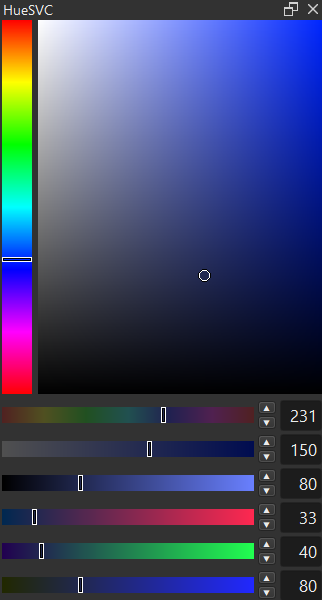
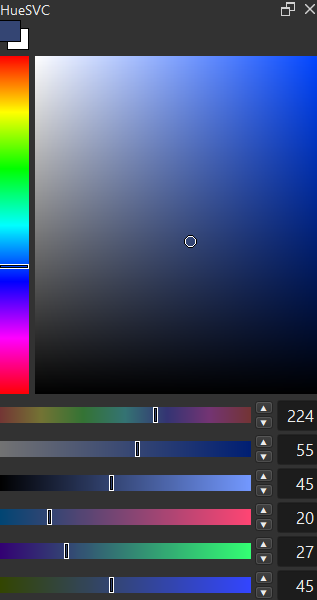
update

diff --git a/quick_access_manager/color_selector/color_selector_dock.py b/quick_access_manager/color_selector/color_selector_dock.py
@@ -233,6 +233,48 @@ class ChannelBar(QWidget):
         self._pressed = False
 
 
+class FgBgColorWidget(QWidget):
+    """Stacked foreground/background color swatch. Click either to swap them."""
+    swapRequested = pyqtSignal()
+
+    _SWATCH = 22
+    _OFFSET = 8
+
+    def __init__(self, parent=None):
+        super().__init__(parent)
+        self._fg = QColor(0, 0, 0)
+        self._bg = QColor(255, 255, 255)
+        total = self._SWATCH + self._OFFSET
+        self.setFixedSize(total, total)
+        self.setCursor(Qt.PointingHandCursor)
+        self.setToolTip("Click to swap foreground / background")
+
+    def setColors(self, fg, bg):
+        if fg == self._fg and bg == self._bg:
+            return
+        self._fg = fg
+        self._bg = bg
+        self.update()
+
+    def paintEvent(self, event):
+        painter = QPainter(self)
+        sw = self._SWATCH
+        off = self._OFFSET
+        # BG swatch behind (offset to bottom-right)
+        painter.fillRect(off, off, sw, sw, self._bg)
+        painter.setPen(Qt.black)
+        painter.drawRect(off, off, sw - 1, sw - 1)
+        # FG swatch in front (top-left)
+        painter.fillRect(0, 0, sw, sw, self._fg)
+        painter.setPen(Qt.black)
+        painter.drawRect(0, 0, sw - 1, sw - 1)
+        painter.end()
+
+    def mousePressEvent(self, event):
+        if event.button() == Qt.LeftButton:
+            self.swapRequested.emit()
+
+
 class ColorSelectorDock(DockWidget):
     def __init__(self):
         super().__init__()
@@ -243,11 +285,21 @@ class ColorSelectorDock(DockWidget):
         self._h, self._s, self._v = 0, 255, 255
         color = QColor.fromHsv(0, 255, 255)
         self._r, self._g, self._b = color.red(), color.green(), color.blue()
+        self._bg_r, self._bg_g, self._bg_b = 255, 255, 255
 
         main_widget = QWidget(self)
         outer_layout = QVBoxLayout(main_widget)
         outer_layout.setContentsMargins(4, 4, 4, 4)
         outer_layout.setSpacing(6)
+
+        # ── FG/BG color swatch ──
+        fg_bg_layout = QHBoxLayout()
+        fg_bg_layout.setContentsMargins(0, 0, 0, 0)
+        self.fg_bg_widget = FgBgColorWidget()
+        self.fg_bg_widget.swapRequested.connect(self._swapColors)
+        fg_bg_layout.addWidget(self.fg_bg_widget)
+        fg_bg_layout.addStretch()
+        outer_layout.addLayout(fg_bg_layout)
 
         # ── Top: hue bar + SV box ──
         top_layout = QHBoxLayout()
@@ -367,6 +419,10 @@ class ColorSelectorDock(DockWidget):
         self.channel_labels['R'].setText(str(r_disp))
         self.channel_labels['G'].setText(str(g_disp))
         self.channel_labels['B'].setText(str(b_disp))
+        self.fg_bg_widget.setColors(
+            QColor(self._r, self._g, self._b),
+            QColor(self._bg_r, self._bg_g, self._bg_b),
+        )
 
     def _applyHSV(self, h, s, v, push=True):
         """Set full state from HSV, update all widgets, optionally push to Krita."""
@@ -400,28 +456,39 @@ class ColorSelectorDock(DockWidget):
             self._poll_timer.start()
 
     def _pollKritaColor(self):
-        """Read Krita's current foreground color and sync UI if it changed."""
+        """Read Krita's current foreground/background colors and sync UI if changed."""
         app = Krita.instance()
         if not app.activeWindow():
             return
         view = app.activeWindow().activeView()
         if not view:
             return
+        canvas = view.canvas()
+
+        # Poll foreground color
         mc = view.foregroundColor()
-        if not mc:
-            return
-        qcolor = mc.colorForCanvas(app.activeWindow().activeView().canvas())
-        if not qcolor or not qcolor.isValid():
-            return
+        if mc:
+            qcolor = mc.colorForCanvas(canvas)
+            if qcolor and qcolor.isValid():
+                r, g, b = qcolor.red(), qcolor.green(), qcolor.blue()
+                if (r, g, b) != (self._r, self._g, self._b):
+                    color = QColor(r, g, b)
+                    h = color.hsvHue() if color.hsvHue() != -1 else self._h
+                    s, v = color.hsvSaturation(), color.value()
+                    self._applyHSV(h, s, v, push=False)
 
-        r, g, b = qcolor.red(), qcolor.green(), qcolor.blue()
-        if (r, g, b) == (self._r, self._g, self._b):
-            return  # no change
-
-        color = QColor(r, g, b)
-        h = color.hsvHue() if color.hsvHue() != -1 else self._h
-        s, v = color.hsvSaturation(), color.value()
-        self._applyHSV(h, s, v, push=False)
+        # Poll background color
+        mc_bg = view.backgroundColor()
+        if mc_bg:
+            qcolor_bg = mc_bg.colorForCanvas(canvas)
+            if qcolor_bg and qcolor_bg.isValid():
+                r, g, b = qcolor_bg.red(), qcolor_bg.green(), qcolor_bg.blue()
+                if (r, g, b) != (self._bg_r, self._bg_g, self._bg_b):
+                    self._bg_r, self._bg_g, self._bg_b = r, g, b
+                    self.fg_bg_widget.setColors(
+                        QColor(self._r, self._g, self._b),
+                        QColor(self._bg_r, self._bg_g, self._bg_b),
+                    )
 
     # ── Signal handlers ─────────────────────────────────────────
 
@@ -526,6 +593,35 @@ class ColorSelectorDock(DockWidget):
         components[3] = 1.0
         mc.setComponents(components)
         view.setForeGroundColor(mc)
+
+    def _swapColors(self):
+        """Swap Krita's foreground and background colors."""
+        app = Krita.instance()
+        if not app.activeWindow():
+            return
+        view = app.activeWindow().activeView()
+        if not view:
+            return
+        mc_fg = view.foregroundColor()
+        mc_bg = view.backgroundColor()
+        if not mc_fg or not mc_bg:
+            return
+        view.setForeGroundColor(mc_bg)
+        view.setBackGroundColor(mc_fg)
+        # Sync local state to swapped colors
+        canvas = view.canvas()
+        qcolor_new_fg = mc_bg.colorForCanvas(canvas)
+        if qcolor_new_fg and qcolor_new_fg.isValid():
+            color = QColor(qcolor_new_fg.red(), qcolor_new_fg.green(), qcolor_new_fg.blue())
+            h = color.hsvHue() if color.hsvHue() != -1 else self._h
+            self._applyHSV(h, color.hsvSaturation(), color.value(), push=False)
+        qcolor_new_bg = mc_fg.colorForCanvas(canvas)
+        if qcolor_new_bg and qcolor_new_bg.isValid():
+            self._bg_r, self._bg_g, self._bg_b = qcolor_new_bg.red(), qcolor_new_bg.green(), qcolor_new_bg.blue()
+        self.fg_bg_widget.setColors(
+            QColor(self._r, self._g, self._b),
+            QColor(self._bg_r, self._bg_g, self._bg_b),
+        )
 
     def canvasChanged(self, canvas):
         pass

diff --git a/quick_access_manager/color_selector/color_selector_popup.py b/quick_access_manager/color_selector/color_selector_popup.py
@@ -5,7 +5,7 @@ from PyQt5.QtWidgets import (
 from PyQt5.QtGui import QColor, QCursor, QFont, QIntValidator
 from PyQt5.QtCore import Qt, QTimer
 
-from .color_selector_dock import HueBar, SVBox, ChannelBar
+from .color_selector_dock import HueBar, SVBox, ChannelBar, FgBgColorWidget
 from ..config.popup_loader import PopupConfigLoader
 
 
@@ -22,10 +22,20 @@ class ColorSelectorPopupWindow(QFrame):
         self._h, self._s, self._v = 0, 255, 255
         color = QColor.fromHsv(0, 255, 255)
         self._r, self._g, self._b = color.red(), color.green(), color.blue()
+        self._bg_r, self._bg_g, self._bg_b = 255, 255, 255
 
         outer_layout = QVBoxLayout(self)
         outer_layout.setContentsMargins(6, 6, 6, 6)
         outer_layout.setSpacing(6)
+
+        # ── FG/BG color swatch ──
+        fg_bg_layout = QHBoxLayout()
+        fg_bg_layout.setContentsMargins(0, 0, 0, 0)
+        self.fg_bg_widget = FgBgColorWidget()
+        self.fg_bg_widget.swapRequested.connect(self._swapColors)
+        fg_bg_layout.addWidget(self.fg_bg_widget)
+        fg_bg_layout.addStretch()
+        outer_layout.addLayout(fg_bg_layout)
 
         # ── Top: hue bar + SV box ──
         top_layout = QHBoxLayout()
@@ -155,6 +165,10 @@ class ColorSelectorPopupWindow(QFrame):
         self.channel_labels['R'].setText(str(r_disp))
         self.channel_labels['G'].setText(str(g_disp))
         self.channel_labels['B'].setText(str(b_disp))
+        self.fg_bg_widget.setColors(
+            QColor(self._r, self._g, self._b),
+            QColor(self._bg_r, self._bg_g, self._bg_b),
+        )
 
     def _applyHSV(self, h, s, v, push=True):
         self._h, self._s, self._v = h, s, v
@@ -192,21 +206,32 @@ class ColorSelectorPopupWindow(QFrame):
         view = app.activeWindow().activeView()
         if not view:
             return
+        canvas = view.canvas()
+
+        # Poll foreground color
         mc = view.foregroundColor()
-        if not mc:
-            return
-        qcolor = mc.colorForCanvas(app.activeWindow().activeView().canvas())
-        if not qcolor or not qcolor.isValid():
-            return
+        if mc:
+            qcolor = mc.colorForCanvas(canvas)
+            if qcolor and qcolor.isValid():
+                r, g, b = qcolor.red(), qcolor.green(), qcolor.blue()
+                if (r, g, b) != (self._r, self._g, self._b):
+                    color = QColor(r, g, b)
+                    h = color.hsvHue() if color.hsvHue() != -1 else self._h
+                    s, v = color.hsvSaturation(), color.value()
+                    self._applyHSV(h, s, v, push=False)
 
-        r, g, b = qcolor.red(), qcolor.green(), qcolor.blue()
-        if (r, g, b) == (self._r, self._g, self._b):
-            return
-
-        color = QColor(r, g, b)
-        h = color.hsvHue() if color.hsvHue() != -1 else self._h
-        s, v = color.hsvSaturation(), color.value()
-        self._applyHSV(h, s, v, push=False)
+        # Poll background color
+        mc_bg = view.backgroundColor()
+        if mc_bg:
+            qcolor_bg = mc_bg.colorForCanvas(canvas)
+            if qcolor_bg and qcolor_bg.isValid():
+                r, g, b = qcolor_bg.red(), qcolor_bg.green(), qcolor_bg.blue()
+                if (r, g, b) != (self._bg_r, self._bg_g, self._bg_b):
+                    self._bg_r, self._bg_g, self._bg_b = r, g, b
+                    self.fg_bg_widget.setColors(
+                        QColor(self._r, self._g, self._b),
+                        QColor(self._bg_r, self._bg_g, self._bg_b),
+                    )
 
     # ── Signal handlers ──────────────────────────────────────────
 
@@ -285,6 +310,34 @@ class ColorSelectorPopupWindow(QFrame):
         else:
             max_val = 100
         self._onChannelChanged(ch, max(0, min(max_val, val)))
+
+    def _swapColors(self):
+        """Swap Krita's foreground and background colors."""
+        app = Krita.instance()
+        if not app.activeWindow():
+            return
+        view = app.activeWindow().activeView()
+        if not view:
+            return
+        mc_fg = view.foregroundColor()
+        mc_bg = view.backgroundColor()
+        if not mc_fg or not mc_bg:
+            return
+        view.setForeGroundColor(mc_bg)
+        view.setBackGroundColor(mc_fg)
+        canvas = view.canvas()
+        qcolor_new_fg = mc_bg.colorForCanvas(canvas)
+        if qcolor_new_fg and qcolor_new_fg.isValid():
+            color = QColor(qcolor_new_fg.red(), qcolor_new_fg.green(), qcolor_new_fg.blue())
+            h = color.hsvHue() if color.hsvHue() != -1 else self._h
+            self._applyHSV(h, color.hsvSaturation(), color.value(), push=False)
+        qcolor_new_bg = mc_fg.colorForCanvas(canvas)
+        if qcolor_new_bg and qcolor_new_bg.isValid():
+            self._bg_r, self._bg_g, self._bg_b = qcolor_new_bg.red(), qcolor_new_bg.green(), qcolor_new_bg.blue()
+        self.fg_bg_widget.setColors(
+            QColor(self._r, self._g, self._b),
+            QColor(self._bg_r, self._bg_g, self._bg_b),
+        )
 
     def _setKritaForeground(self, qcolor):
         app = Krita.instance()

diff --git a/README.md b/README.md
@@ -303,9 +303,10 @@ The floating widget system is based on the work from [Krita-UI-Redesign](https:/
 A compact color selector docker with a vertical hue bar, saturation/value box, and 6 individual channel bars for H, S, V, R, G, B.
 
 **Features:**
+- **FG/BG color swatch** — two stacked squares at the top display the current foreground (front) and background (back) colors; click either to swap them instantly
 - Drag any channel bar to adjust its value; color is applied to Krita after a short debounce delay
 - Use the ▲/▼ buttons or type a number directly into each channel's value field for precise control
-- Syncs automatically with Krita's active foreground color every second
+- Syncs automatically with Krita's active foreground and background colors at a configurable interval
 - Available as a **popup window** — press the configured shortcut key to open it at the cursor; the popup closes when the mouse leaves
 
 **Popup Shortcut:** `A` (default)
@@ -314,7 +315,8 @@ A compact color selector docker with a vertical hue bar, saturation/value box, a
 - **Color Selector Popup Shortcut** — key to open/close the popup
 - **Popup Width / Height** — dimensions of the popup window
 - **Value Font Size** — font size for the channel value inputs
-- **Foreground Color Check Interval (ms)** — how often the docker/popup polls Krita's foreground color (default: 500 ms)
+- **Foreground Color Check Interval (ms)** — how often the docker/popup polls Krita's foreground and background colors (default: 500 ms)
+- **R/G/B Display Mode** — choose `Percentage (0–100)` or `Value (0–255)` for the R, G, B channel bars and inputs
 
 ## Config Files Location
 ```

diff --git a/CHANGELOG.md b/CHANGELOG.md
@@ -3,6 +3,18 @@ All notable changes to this project will be documented in this file.
 
 The format is based on [Keep a Changelog](https://keepachangelog.com/en/1.0.0/).
 
+## 2026-03-08
+### Added
+- HueSVC: FG/BG color swatch widget (`FgBgColorWidget`) displayed above the HueBar + SVBox in both the docker and the popup
+  - Shows current foreground (front square) and background (back square, offset) colors
+  - Click either square to swap Krita's foreground and background colors instantly
+  - Background color is polled alongside foreground color and updates the swatch automatically
+- HueSVC: configurable R/G/B display mode (`color_selector_rgb_display_mode` in `popup.json`)
+  - `percentage` (default): R/G/B channel bars and inputs use 0–100 scale
+  - `value`: R/G/B channel bars and inputs use 0–255 scale
+  - Bar drag, ▲/▼ step, and direct text input all respect the chosen mode
+- Settings → Popup tab: added **R/G/B Display Mode** combo box (Percentage / Value)
+
 ## 2026-03-07
 ### Added
 - Color Selector Popup (`color_selector/color_selector_popup.py`)
